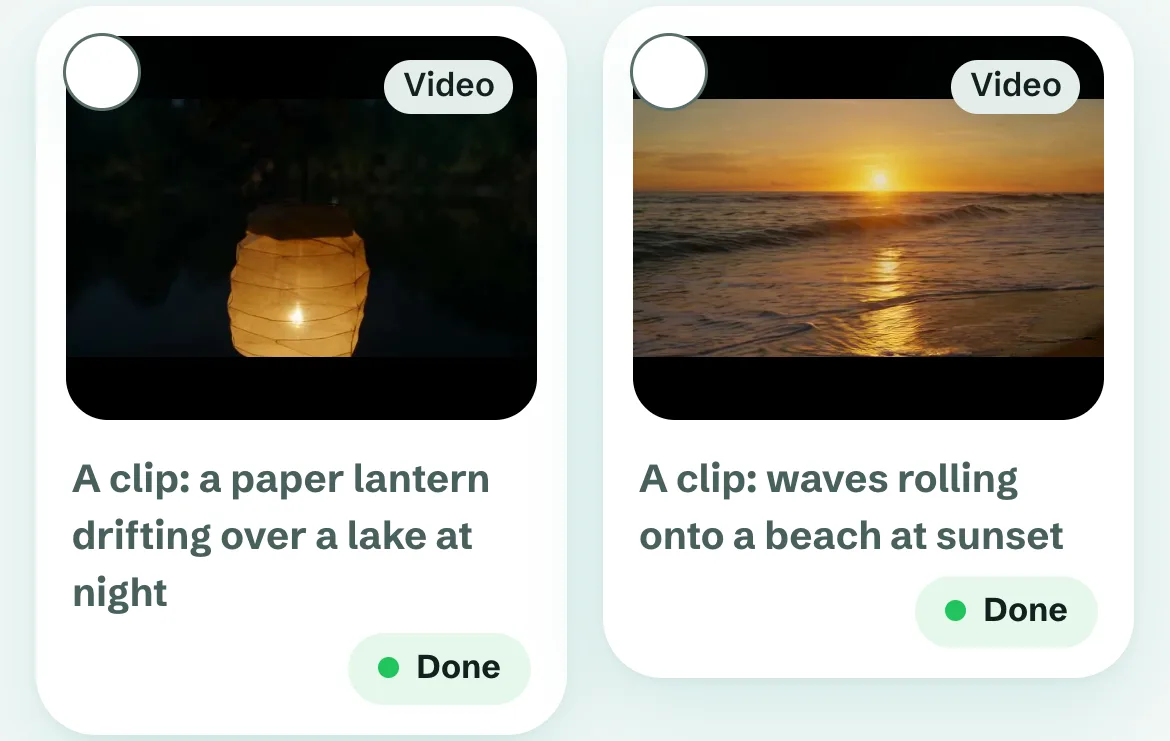
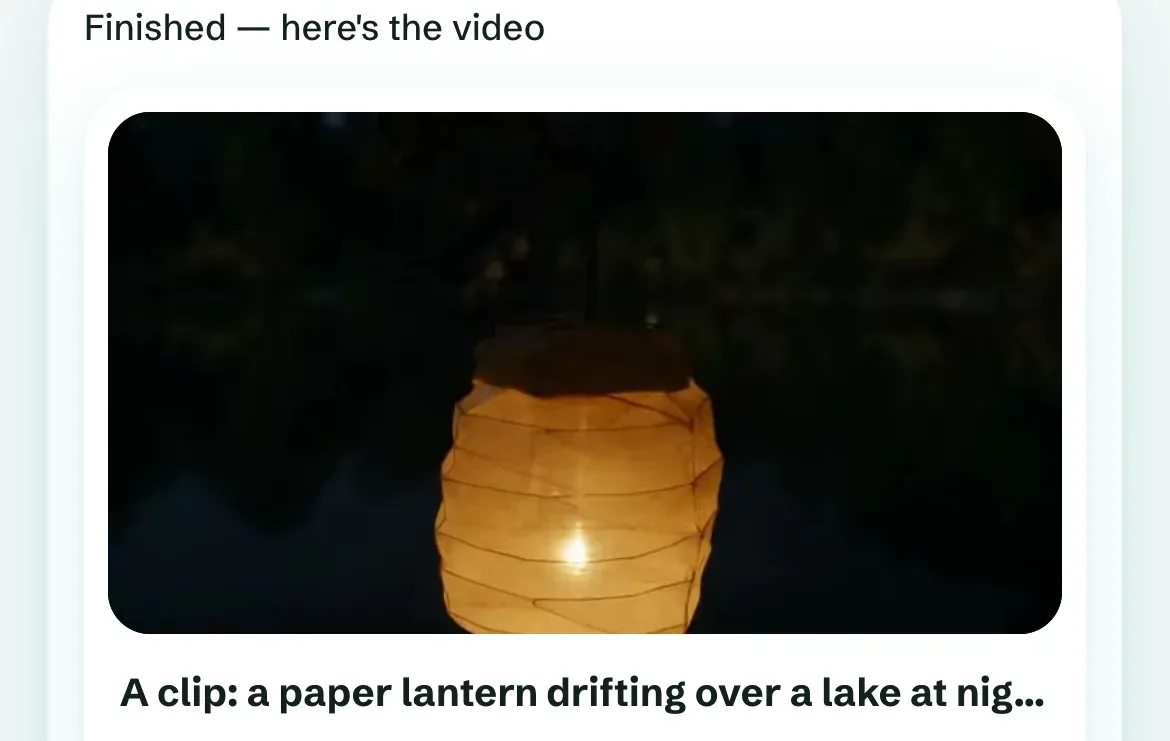
Intent-to-video: the Library comes off the site (user, 2026-10-23: "hide the library from my website")
- the card leads with the finished lantern take in Compo's chat, cropped from step 3 (1170x741, as before)
- step 4, the Library screen, goes; the walkthrough ends at the take back in the chat
- e2e: three steps; the card's alt and every image, alt and caption on the page name no Library

Confirms: pnpm build passes; pnpm test:e2e 96 passed, 1 skipped; depcruise clean; pnpm lint fails
exactly as origin/main does (7 errors in fx/ and ui/, none in the changed files).

diff --git a/src/content/projects.ts b/src/content/projects.ts
@@ -18,7 +18,7 @@ export const projects: Project[] = [
     chips: ["Generative video", "Diffusion", "Human-in-the-loop", "Wan", "LTX"],
     // Compo, the app the pipeline runs in, against mocked demo data; the clips are real takes.
     shots: {
-      card: { src: "/projects/intent-to-video/card", width: 1170, height: 741, themed: false, scale: 3, alt: "Compo’s Library: a paper lantern drifting over a lake at night, and waves rolling onto a beach at sunset, both done" },
+      card: { src: "/projects/intent-to-video/card", width: 1170, height: 741, themed: false, scale: 3, alt: "Compo’s chat: the finished take, “A clip: a paper lantern drifting over a lake at night”" },
       clips: [
         { src: "/projects/intent-to-video/lantern", poster: "/projects/intent-to-video/lantern-poster.jpg", width: 704, height: 384, caption: "“A paper lantern drifting over a lake at night”" },
         { src: "/projects/intent-to-video/waves", poster: "/projects/intent-to-video/waves-poster.jpg", width: 704, height: 384, caption: "“Waves rolling onto a beach at sunset”" },
@@ -28,7 +28,6 @@ export const projects: Project[] = [
         { shot: { src: "/projects/intent-to-video/step-1", width: 1170, height: 1683, themed: false, scale: 3, alt: "Compo’s chat with suggested prompts, and “A paper lantern drifting over a lake at night” typed in" }, caption: "Describe the shot in a sentence, or start from a photo." },
         { shot: { src: "/projects/intent-to-video/step-2", width: 1170, height: 785, themed: false, scale: 3, alt: "The guide’s plan: a 6-second 480p clip at 16:9, and Take 1 waiting in the queue" }, caption: "The guide turns it into a plan (clip or still, length, size) and queues the take on the home-lab machines." },
         { shot: { src: "/projects/intent-to-video/step-3", width: 1170, height: 1660, themed: false, scale: 3, alt: "The finished take in the chat: the lantern clip with Keep, Reject, Another take and Download" }, caption: "The take comes back into the chat. Keep it, reject it, or ask for another." },
-        { shot: { src: "/projects/intent-to-video/step-4", width: 1170, height: 1823, themed: false, scale: 3, alt: "The Library: clips of a lantern, waves and a candle, and stills of a red kite and a blue door" }, caption: "Everything lands in the Library, stills and clips, to pick from later." },
       ],
     },
     // Compo, password-gated; the password is given on request, never published.

diff --git a/e2e/m2.spec.ts b/e2e/m2.spec.ts
@@ -486,7 +486,7 @@ test.describe("Parti screenshots (card 69)", () => {
 });
 
 test.describe("Intent-to-video screenshots and clips", () => {
-  test("the page plays two muted looping clips and shows four steps", async ({ page }) => {
+  test("the page plays two muted looping clips and shows three steps", async ({ page }) => {
     await page.goto("/building/intent-to-video/");
     const clips = page.locator("[data-clips] video");
     await expect(clips).toHaveCount(2);
@@ -495,19 +495,30 @@ test.describe("Intent-to-video screenshots and clips", () => {
     }
     await expect.poll(() => clips.first().evaluate((el: HTMLVideoElement) => el.readyState)).toBeGreaterThanOrEqual(2);
     const steps = page.locator("[data-shot-steps] > li");
-    await expect(steps).toHaveCount(4);
-    for (let i = 0; i < 4; i++) {
+    await expect(steps).toHaveCount(3);
+    for (let i = 0; i < 3; i++) {
       const img = steps.nth(i).locator("img");
       await img.scrollIntoViewIfNeeded();
       await expect.poll(() => img.evaluate((el: HTMLImageElement) => el.naturalWidth)).toBeGreaterThan(0);
     }
   });
 
-  test("the card leads with the Library screenshot", async ({ page }) => {
+  test("the card leads with the finished take, not the Library", async ({ page }) => {
     await page.goto("/building/");
     const img = page.locator("#intent-to-video [data-shot] img").first();
     await expect(img).toBeVisible();
     await expect(img).toHaveAttribute("src", "/projects/intent-to-video/card.webp");
+    await expect(img).not.toHaveAttribute("alt", /library/i);
+  });
+
+  // The Library stays private (user, 2026-10-23): no screenshot, alt or caption shows or names it.
+  test("the Compo page shows no Library screen", async ({ page }) => {
+    await page.goto("/building/intent-to-video/");
+    for (const alt of await page.locator("img").evaluateAll((els) => els.map((e) => e.getAttribute("alt") ?? ""))) {
+      expect(alt).not.toMatch(/library/i);
+    }
+    await expect(page.locator("[data-shot-steps]")).not.toContainText(/library/i);
+    await expect(page.locator("img[src*=\"step-4\"]")).toHaveCount(0);
   });
 });
 
